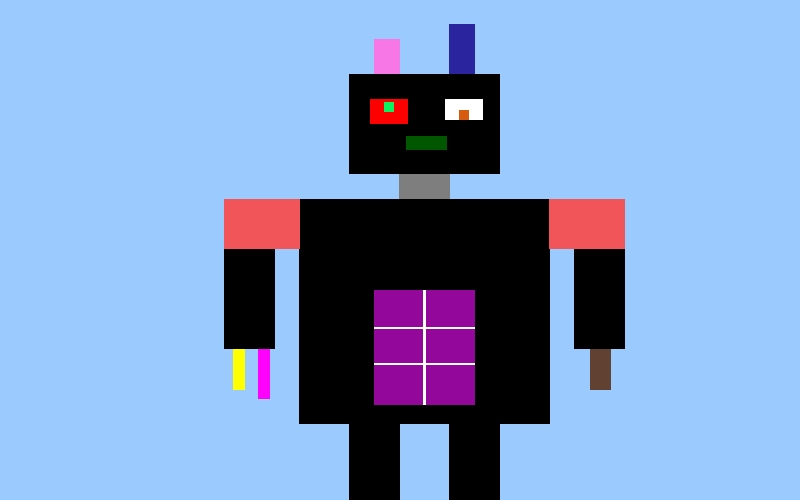
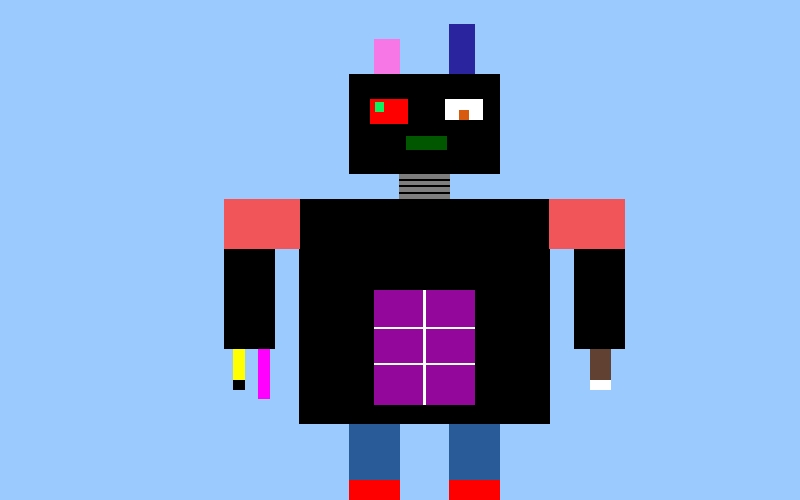
nimrod v2.

diff --git a/src/Unittests/ImageWriterTest.java b/src/Unittests/ImageWriterTest.java
@@ -68,10 +68,18 @@ class ImageWriterTest {
         }
 
         //legs
-        for (int i = 424; i < nY; ++i) {
+        for (int i = 424; i < 480; ++i) {
             for (int j = 0; j < nX; ++j) {
                 imageWriter.writePixel(j, i,
-                        (j  >= (14*cell)-1 && j<= (16*cell)-1) || (j  >= (18*cell)-1 && j<= (20*cell)-1) ? new Color(0,0,0) : new Color(154,202,254));
+                        (j  >= (14*cell)-1 && j<= (16*cell)-1) || (j  >= (18*cell)-1 && j<= (20*cell)-1) ? new Color(41,91,152) : new Color(154,202,254));
+            }
+        }
+
+        //shoes
+        for (int i = 480; i < nY; ++i) {
+            for (int j = 0; j < nX; ++j) {
+                imageWriter.writePixel(j, i,
+                        (j  >= (14*cell)-1 && j<= (16*cell)-1) || (j  >= (18*cell)-1 && j<= (20*cell)-1) ? new Color(255,0,0) : new Color(154,202,254));
             }
         }
 
@@ -123,6 +131,30 @@ class ImageWriterTest {
             }
         }
 
+        //neck stripes 1
+        for (int i = 179; i < 181; ++i) {
+            for (int j = 0; j < nX; ++j) {
+                imageWriter.writePixel(j, i,
+                        (j  >= (16*cell)-1 && j<= (18*cell)-1) ? new Color(0,0,0) : new Color(154,202,254));
+            }
+        }
+
+        //neck stripes 2
+        for (int i = 185; i < 187; ++i) {
+            for (int j = 0; j < nX; ++j) {
+                imageWriter.writePixel(j, i,
+                        (j  >= (16*cell)-1 && j<= (18*cell)-1) ? new Color(0,0,0) : new Color(154,202,254));
+            }
+        }
+
+        //neck stripes 3
+        for (int i = 192; i < 194; ++i) {
+            for (int j = 0; j < nX; ++j) {
+                imageWriter.writePixel(j, i,
+                        (j  >= (16*cell)-1 && j<= (18*cell)-1) ? new Color(0,0,0) : new Color(154,202,254));
+            }
+        }
+
         //head
         for (int i = 74; i < 174; ++i) {
             for (int j = 0; j < nX; ++j) {
@@ -154,7 +186,7 @@ class ImageWriterTest {
 
         //left pupil
         for (int i = 102; i < 112; ++i) {
-            for (int j = (15*cell)+9; j < (16*cell)-6; ++j) {
+            for (int j = (15*cell); j < (16*cell)-16; ++j) {
                 imageWriter.writePixel(j, i, new Color(11,242,96));
             }
         }
@@ -198,7 +230,7 @@ class ImageWriterTest {
         }
 
         //left finger
-        for (int i = 349; i < 390; ++i) {
+        for (int i = 349; i < 380; ++i) {
             for (int j = (9*cell)-1; j < (11*cell); ++j) {
                 imageWriter.writePixel(j, i,
                         (j >= (9*cell)+8 && j<= (10*cell)-6) ? new Color(255,255,0) : new Color(154,202,254));
@@ -213,11 +245,35 @@ class ImageWriterTest {
             }
         }
 
+        //left finger nail
+        for (int i = 380; i < 390; ++i) {
+            for (int j = (9*cell)-1; j < (11*cell); ++j) {
+                imageWriter.writePixel(j, i,
+                        (j >= (9*cell)+8 && j<= (10*cell)-6) ? new Color(0,0,0) : new Color(154,202,254));
+            }
+        }
+
+        //left another finger nail
+        for (int i = 349; i < 399; ++i) {
+            for (int j = (10*cell)-1; j < (11*cell); ++j) {
+                imageWriter.writePixel(j, i,
+                        (j >= (10*cell)+8 && j<= (11*cell)-6) ? new Color(255,0,255) : new Color(154,202,254));
+            }
+        }
+
         //right finger
-        for (int i = 349; i < 390; ++i) {
+        for (int i = 349; i < 380; ++i) {
             for (int j = (23*cell)-1; j < (25*cell); ++j) {
                 imageWriter.writePixel(j, i,
                         (j >= (23*cell)+15 && j<= (25*cell)-15) ? new Color(97,65,50) : new Color(154,202,254));
+            }
+        }
+
+        //right finger nail
+        for (int i = 380; i < 390; ++i) {
+            for (int j = (23*cell)-1; j < (25*cell); ++j) {
+                imageWriter.writePixel(j, i,
+                        (j >= (23*cell)+15 && j<= (25*cell)-15) ? new Color(255,255,255) : new Color(154,202,254));
             }
         }
 
